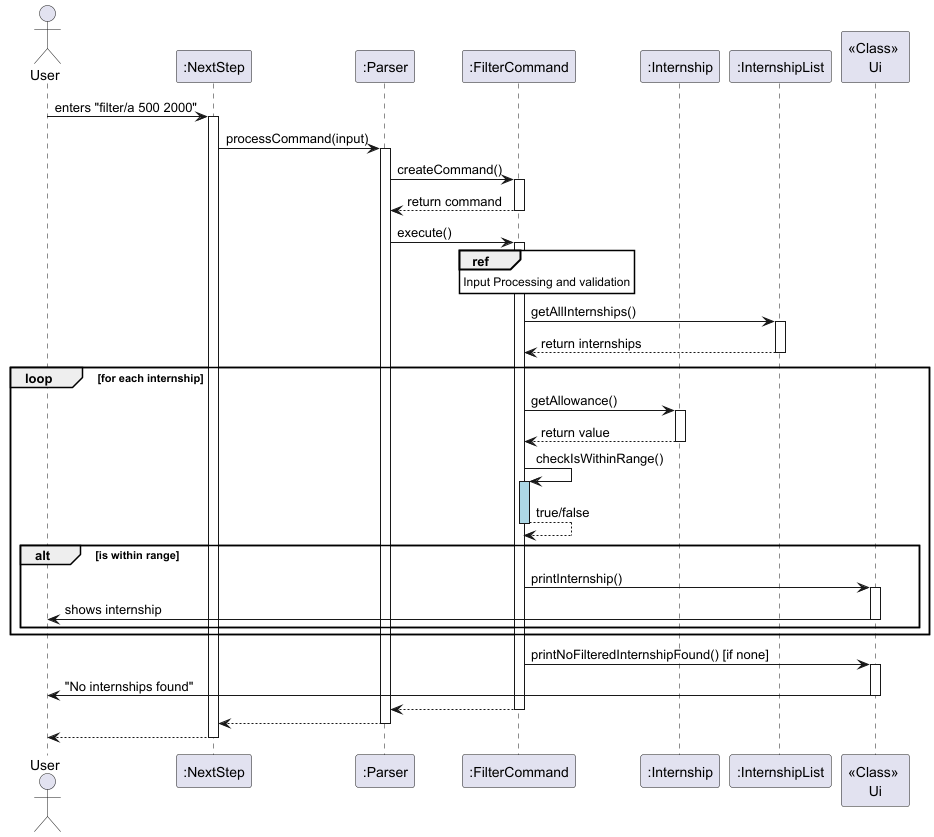
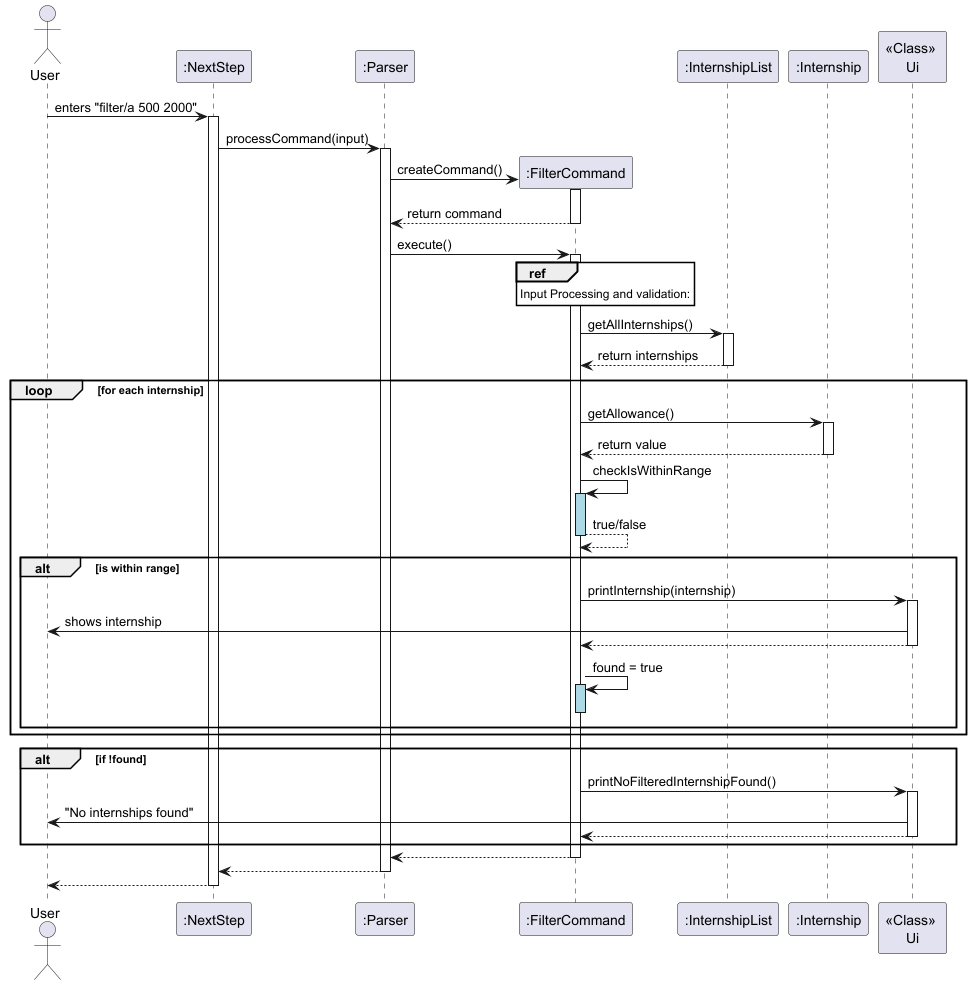
Final few updates for everything

diff --git a/src/main/java/seedu/nextstep/command/FilterCommand.java b/src/main/java/seedu/nextstep/command/FilterCommand.java
@@ -24,8 +24,8 @@ public class FilterCommand extends Command {
      *
      * @throws EmptyInputException         if no range is given by the user.
      * @throws InvalidInputFormatException if more than 2 values are provided.
-     * @throws NumberFormatException       if the ranges provided are not integers.
      * @throws InvalidIntegerException     if values provided are negative.
+     * @throws NumberFormatException       if the ranges provided are not integers.
      */
     @Override
     public void execute() throws EmptyInputException, InvalidInputFormatException, InvalidIntegerException {
@@ -74,6 +74,14 @@ public class FilterCommand extends Command {
         return maxVal;
     }
 
+    /**
+     * Helper function to check if a particular internship is within range.
+     * @param internship Internship to check.
+     * @param filterType Type of filter - duration/allowance
+     * @param minValue The minimum value provided by the user.
+     * @param maxValue The maximum value provided by the user.
+     * @return True if internship fields are within range, false otherwise.
+     */
     private boolean checkIsWithinRange(Internship internship, String filterType, int minValue, int maxValue) {
         if (filterType.equals("filter/a")) {
             int allowance = internship.getAllowance();

diff --git a/src/main/java/seedu/nextstep/parser/Parser.java b/src/main/java/seedu/nextstep/parser/Parser.java
@@ -33,6 +33,10 @@ public class Parser {
         this.storage = storage;
     }
 
+    /**
+     * Takes in user input, creates and executes the appropriate command.
+     * @param input User input
+     */
     public void processCommand(String input) {
         //@@author jiajun2002
         input = input.trim();
@@ -62,6 +66,13 @@ public class Parser {
         }
     }
 
+    /**
+     * Creates the correct command based on the commandWord.
+     * @param commandWord The commandWord.
+     * @param input User input.
+     * @return The created command.
+     * @throws SimilarCommandException if the commandWord does not exist but is similar to an existing command.
+     */
     protected Command createCommand(String commandWord, String input) throws SimilarCommandException {
         return switch (commandWord) {
         case "add" -> new AddCommand(input, internships, storage);
@@ -78,6 +89,10 @@ public class Parser {
         };
     }
 
+    /**
+     * Handles NumberFormatExceptions thrown by various command executions.
+     * @param commandWord
+     */
     private void handleNumberFormatException(String commandWord) {
         if (commandWord.equals("add")) {
             Ui.showError("Error: Allowance/duration have to be integers.");

diff --git a/src/main/java/seedu/nextstep/command/AddCommand.java b/src/main/java/seedu/nextstep/command/AddCommand.java
@@ -33,8 +33,8 @@ public class AddCommand extends Command {
      * Executes the adding of a new Internship.
      * @throws EmptyInputException If no details are given after "add".
      * @throws InvalidInputFormatException If there are missing fields.
-     * @throws NumberFormatException If allowance/duration are not integers.
      * @throws InvalidIntegerException If allowance is negative or duration is non-positive.
+     * @throws NumberFormatException If allowance/duration are not integers.
      */
     @Override
     public void execute() throws EmptyInputException, InvalidInputFormatException, InvalidIntegerException {
@@ -101,6 +101,7 @@ public class AddCommand extends Command {
 
     /**
      * Validates flags to check for invalid or duplicate flags.
+     * @throws InvalidInputFormatException if duplicate flag is found
      */
     private void validateFlags(String input) throws InvalidInputFormatException {
         Set<String> seenFlags = new HashSet<>();

diff --git a/src/main/java/seedu/nextstep/command/DeleteCommand.java b/src/main/java/seedu/nextstep/command/DeleteCommand.java
@@ -20,6 +20,7 @@ public class DeleteCommand extends Command {
      * Executes the deletion of an internship.
      * @throws EmptyInputException If no index is given.
      * @throws InvalidIndexException If index given is out of bounds.
+     * @throws InvalidInputFormatException If too many indexes are provided.
      * @throws NumberFormatException If index given is not an integer.
      */
     @Override
@@ -40,6 +41,7 @@ public class DeleteCommand extends Command {
      * @return the 0-based index
      * @throws EmptyInputException If no index is given.
      * @throws InvalidIndexException If index given is out of bounds.
+     * @throws InvalidInputFormatException If too many indexes are provided.
      * @throws NumberFormatException If index given is not an integer.
      */
     private int parseIndex(String input) throws EmptyInputException, InvalidIndexException, InvalidInputFormatException{

diff --git a/src/main/java/seedu/nextstep/command/EditCommand.java b/src/main/java/seedu/nextstep/command/EditCommand.java
@@ -45,8 +45,8 @@ public class EditCommand extends Command {
      * @throws EmptyInputException         if the user provides an empty input.
      * @throws InvalidIndexException       if the provided index is out of bounds.
      * @throws InvalidInputFormatException if the user input format is incorrect.
-     * @throws NumberFormatException       if numeric values are not properly formatted.
      * @throws InvalidIntegerException     if allowance is negative or duration is non-positive.
+     * @throws NumberFormatException       if numeric values are not properly formatted.
      */
     @Override
     public void execute()

diff --git a/docs/DeveloperGuide.md b/docs/DeveloperGuide.md
@@ -147,6 +147,7 @@ The sequence diagram below showcases the flow of execution:
 Additionally, ```AddCommand``` implements various exception handling to deal with errors.
 + ```EmptyInputException```: Thrown when no details are provided after "add"
 + ```InvalidInputFormatException```: Thrown when required fields are missing
++ ```InvalidIntegerException```: Thrown when allowance given is negative or when duration given is non-positive.
 + ```NumberFormatException```: Caught by the Parser when allowance/duration are not integers
 
 ### Deleting Internship
@@ -172,6 +173,7 @@ The sequence diagram below showcases the flow of execution:
 #### Error Handling
 Additionally, `DeleteCommand` implements various exception handling to deal with errors.
 - `EmptyInputException`: Thrown when no index is provided after "delete".
+- `InvalidInputFormatException`: Thrown when number of indexes provided after "delete" is more than 1.
 - `InvalidIndexException`: Thrown when the index given is out of bounds.
 - `NumberFormatException`: Thrown when the provided index is not a valid integer.
 
@@ -183,7 +185,7 @@ Example input: ```filter\a 500 2000```
 1. The user enters either a `filter\a` or `filter\d` command with the desired ranges.
 2. The parser receives the command and creates a new `FilterCommand` instance.
 3. Once the new instance is created, `FilterCommand.execute()` is invoked.
-4. The `execute()` method gets all internships from `InternshipsList`, loops each internship and prints it if it is within the range via the `Ui`.
+4. The `execute()` method gets all internships from `InternshipsList`, loops each internship and prints it via the `Ui` class if it is within the range provided.
 5. If no internships are found, shows a message to the user as well via the `Ui` class.
 
 ![filterCommandSequence.png](images/filterCommandSequence.png)
@@ -192,8 +194,8 @@ Example input: ```filter\a 500 2000```
 Additionally, `FilterCommand` implements various exception handling to deal with errors.
 - `EmptyInputException`: Thrown when no index is provided after `filter/a` or `filter/d`.
 - `InvalidInputFormatException`: Thrown when more than 2 values are provided as ranges.
--  `NumberFormatException`: Thrown if the ranges provided are not integers.
-- `NumberFormatException`: Thrown when the provided index is not a valid integer.
+- `InvalidIntegerException`: Thrown when values given are negative.
+- `NumberFormatException`: Thrown if the ranges provided are not integers.
 
 ---
 ## Appendix: Requirements
@@ -257,7 +259,7 @@ Before testing, ensure you have Java 17 downloaded on your system.
 ### Launch and Basic Commands
 1. **Initial Launch**
    - Download the NextStep.jar file and copy it into an empty folder
-   - Start the application by running `java -jar NextStep.jar`
+   - Start the application by running `java -jar nextstep.jar`
    - Expected: Shows welcome message
    
    ![img.png](images/initialLaunch.png)

diff --git a/docs/team/jiajun2002.md b/docs/team/jiajun2002.md
@@ -24,10 +24,10 @@ Given below are my contributions to the project.
 - Highlights:
     - Added error and exception handling to prevent incorrect formatting.
 
-**Enhancement: Existing Classses**
-- Ui Class: Implemented the Ui class along with various printing messages and formatting for user interactions.
+**Enhancement: Existing Classes**
+- Ui Class: Implemented the Ui class along with various printing methods and formatting for user interactions.
 - Parser Class: Implemented the Parser class to process user input and execute the appropriate commands.
-- Exception Handling: Created multiple custom exceptions for improved robustness of application.
+- Exception Handling: Created multiple custom exception classes for improved robustness of application.
 - Testing: Added JUnit tests for add and filter to increase reliability of application.
 
 ### Documentation
@@ -37,11 +37,12 @@ Given below are my contributions to the project.
 - Enhanced explanations for `edit` and `filter`
 
 #### Contributions to the Developer Guide
-- Added UML sequence Diagrams for `add`, `filter`, UML Class diagram for the commands component, and improvements on the architecture diagram.
-- Implemented additional instructions in the "Instructions for Manual Testing".
+- Added UML sequence diagrams for `add` and `filter`.
+- Added UML class diagram for commands component, improvements on the architecture diagram and other existing diagrams.
+- Implemented additional instructions in the "Instructions for Manual Testing" section.
 
 ### Project Management
-- Managed 2 releases on GitHub (v1.0 and v2.0).
+- Managed 3 releases on GitHub (v1.0, v2.0 and v2.1).
 - Initiated and closed issues to help track team progress.
 - Conducted code reviews for team members.
 

diff --git a/docs/AboutUs.md b/docs/AboutUs.md
@@ -1,6 +1,6 @@
 # About us
-| Display                                             |    Name    |             Github Profile              |        Portfolio        |
-|-----------------------------------------------------|:----------:|:---------------------------------------:|:-----------------------:|
-| ![](https://via.placeholder.com/100.png?text=Photo) |  Jia Jun   | [Github](https://github.com/jiajun2002) | [Portfolio](jiajun2002) |
-| <img src="images/steve.jpg" width="80"/>            | Steve Chia | [Github](https://github.com/Stevexchia) | [Portfolio](stevexchia) |
-| ![](https://via.placeholder.com/100.png?text=Photo) |   Yanjun   | [Github](https://github.com/xyanjun02)  | [Portfolio](xyanjun02)  |
+| Display                                  |    Name    |             Github Profile              |        Portfolio        |
+|------------------------------------------|:----------:|:---------------------------------------:|:-----------------------:|
+| ![jiajun.jpg](images/jiajun.jpg)         |  Jia Jun   | [Github](https://github.com/jiajun2002) | [Portfolio](jiajun2002) |
+| <img src="images/steve.jpg" width="80"/> | Steve Chia | [Github](https://github.com/Stevexchia) | [Portfolio](stevexchia) |
+| ![](images/yanjun.jpg)                   |   Yanjun   | [Github](https://github.com/xyanjun02)  | [Portfolio](xyanjun02)  |

diff --git a/docs/UserGuide.md b/docs/UserGuide.md
@@ -66,7 +66,7 @@ help
 ### Adding an Internship: `add`
 Adds a new internship with 6 fields. Details of the fields are shown in a table below.
 
-*Note: All fields are required and the order of the fields does not matter*
+*Note: All fields are required*
 
 **Format**:
 ```
